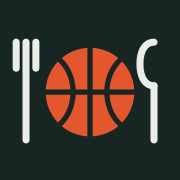
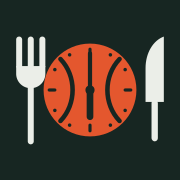
Add files via upload

Changed region(s): [[0.0556, 0.1944, 0.9167, 0.8056]]

diff --git a/public/index.html b/public/index.html
@@ -40,7 +40,8 @@ body{
 h1,h2,h3,h4{font-family:var(--display);margin:0;letter-spacing:-0.015em}
 button,input,select,textarea{font:inherit;color:inherit}
 .wrap{max-width:1180px;margin:0 auto;padding:0 18px 80px}
-#tab-vandaag{display:block;padding-top:20px}
+#tab-vandaag{padding-top:20px}
+section[hidden]{display:none!important}
 
 /* ---------- header ---------- */
 header.top{background:var(--ink);color:#fff;padding:22px 0 0}
@@ -370,8 +371,10 @@ header.top .wrap{padding-bottom:0}
 /* ============================================================
    1. Vaste gegevens
    ============================================================ */
-const VERSIE='3.9.0';
+const VERSIE='3.9.2';
 const CHANGELOG=[
+ ['3.9.2','Nieuw icoon: een volwaardig mes, en de basketbal die tegelijk een wijzerplaat op zes uur is.'],
+ ['3.9.1','Herstel: de tabs toonden allemaal het overzicht. Reistijden worden nu ook opgehaald als enkel de afstand ontbreekt, met een knop om alles te herberekenen.'],
  ['3.9.0','Knop bij ⋯ die alle koppelingen en sleutels in één keer doorlicht.'],
  ['3.8.4','De rit toont nu de enkele afstand én de gereden kilometers, zodat het aandeel per wedstrijd niet meer te verwarren is.'],
  ['3.8.2','Kilometervergoeding verdeeld per wedstrijd in plaats van per zaal.'],
@@ -981,7 +984,11 @@ function reistijd(waar){
   return reistijdTussen(thuisadres(),waar);
 }
 function reisIsBerekend(van,naar){
-  return typeof (state.reisCache||{})[String(van||'').trim()+'|'+String(naar||'').trim()]==='number';
+  const k=String(van||'').trim()+'|'+String(naar||'').trim();
+  const minuten=(state.reisCache||{})[k];
+  const km=(state.kmCache||{})[k];
+  // pas volledig als zowel de tijd als de afstand bekend is
+  return typeof minuten==='number'&&typeof km==='number';
 }
 
 // Vraagt de Worker om alles wat nog niet berekend is
@@ -2725,7 +2732,10 @@ function renderConfig(){
   let h=`<div class="panel">
     <h3>Koppelingen en sleutels</h3>
     <p class="hint">Doorloopt de Worker, de database, het wachtwoord, de agenda's, Claude en de routeplanner. Sleutelwaarden worden nooit getoond.</p>
-    <button class="btn pine" id="testalles" style="margin-top:12px">Alles testen</button>
+    <div style="display:flex;gap:8px;flex-wrap:wrap;margin-top:12px">
+      <button class="btn pine" id="testalles">Alles testen</button>
+      <button class="btn ghost" id="herbereken">Reistijden opnieuw berekenen</button>
+    </div>
     <div id="testuitslag" class="testlijst"></div>
   </div>
 
@@ -2896,6 +2906,21 @@ function renderConfig(){
     : modus==='gedeeld' ? 'Gedeeld opgeslagen: iedereen die deze app opent, ziet dezelfde inhoud. Klik "Vernieuwen" voor je begint.'
     : modus==='lokaal' ? 'Er wordt enkel op dit toestel bewaard. Anderen zien jouw wijzigingen niet.'
     : 'Deze kopie draait zonder opslag. Gebruik "Back-up downloaden", anders gaat alles verloren.';
+
+  $('#herbereken').onclick=async()=>{
+    const knop=$('#herbereken'), vak=$('#testuitslag');
+    if(!confirm('Alle bewaarde reistijden en afstanden wissen en opnieuw laten berekenen?')) return;
+    knop.disabled=true; knop.textContent='Bezig…';
+    state.reisCache={}; state.kmCache={};
+    save();
+    const ok=await haalReistijden();
+    knop.disabled=false; knop.textContent='Reistijden opnieuw berekenen';
+    const n=Object.keys(state.kmCache||{}).length;
+    vak.innerHTML=`<div class="testrij ${ok&&n?'ok':'nok'}"><span class="testmerk">${ok&&n?'✓':'✗'}</span>
+      <span>${ok&&n?('Opnieuw berekend: '+n+' trajecten met afstand.')
+        :'Er kwam niets terug. Staat ORS_KEY ingesteld en is de Worker opnieuw gepubliceerd?'}</span></div>`;
+    render();
+  };
 
   // sleutels doorlichten
   $('#testalles').onclick=async()=>{

diff --git a/public/sw.js b/public/sw.js
@@ -1,6 +1,6 @@
 // Kleine service worker: de app blijft bruikbaar zonder bereik,
 // maar gegevens komen altijd vers van de server als dat kan.
-const CACHE = 'whats4dinner-v2';
+const CACHE = 'whats4dinner-v3';
 const SCHIL = ['/', '/index.html', '/manifest.webmanifest', '/icoon.svg', '/icoon-180.png', '/icoon-192.png'];
 
 self.addEventListener('install', e => {
